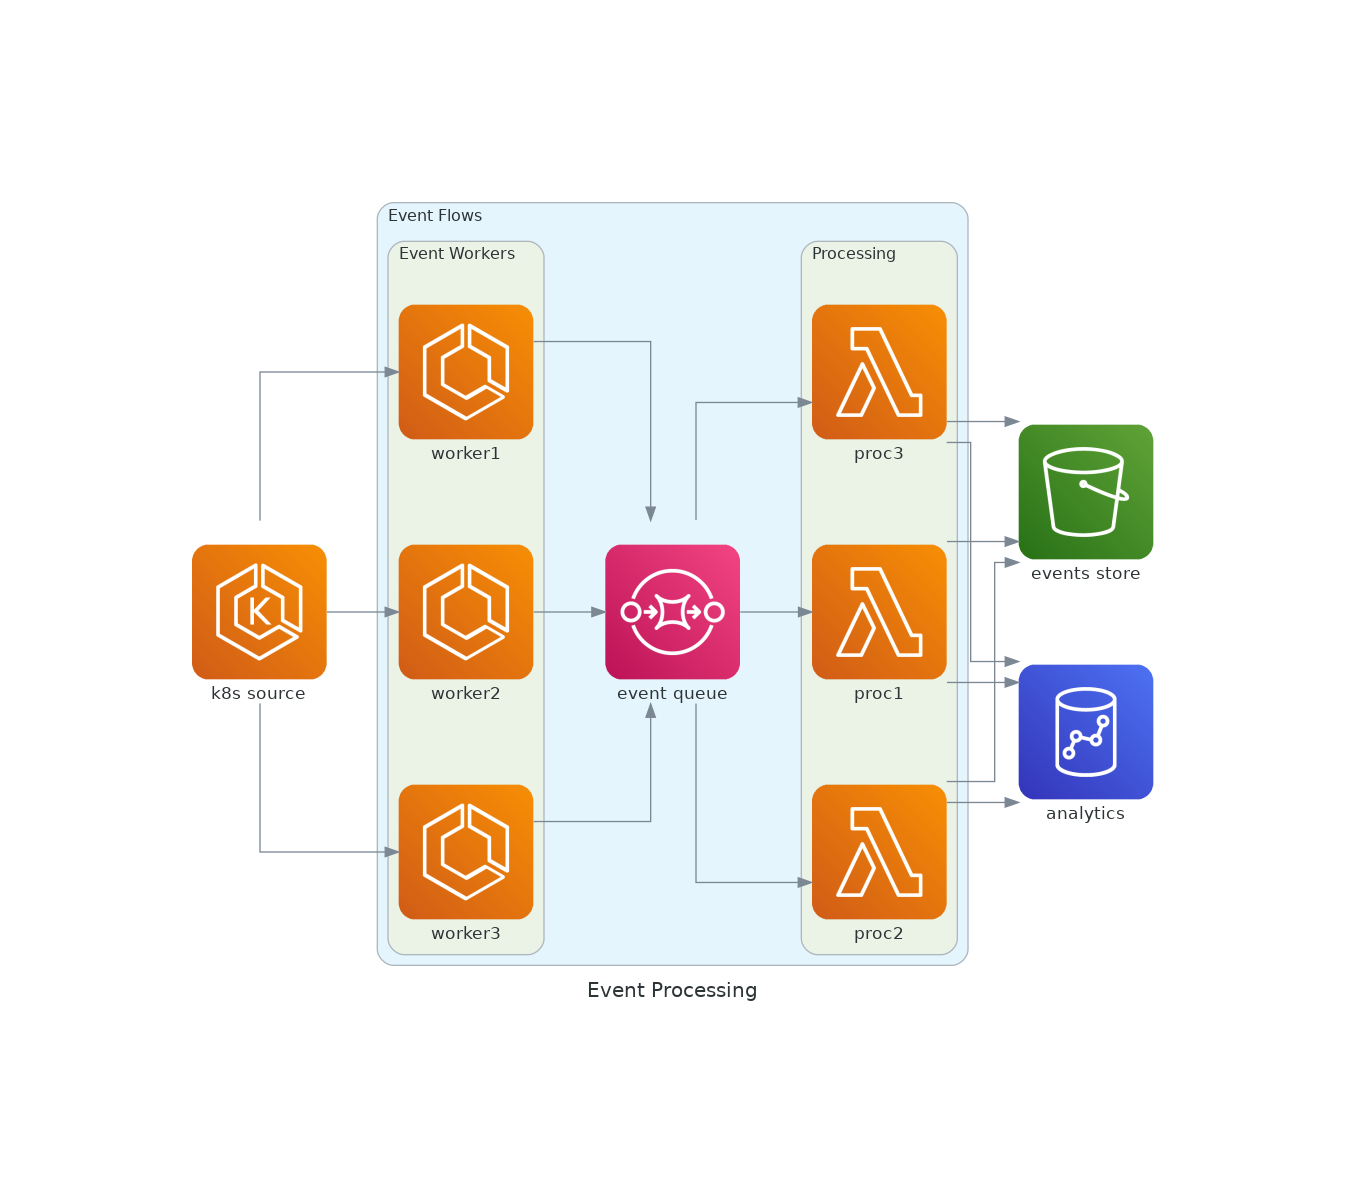
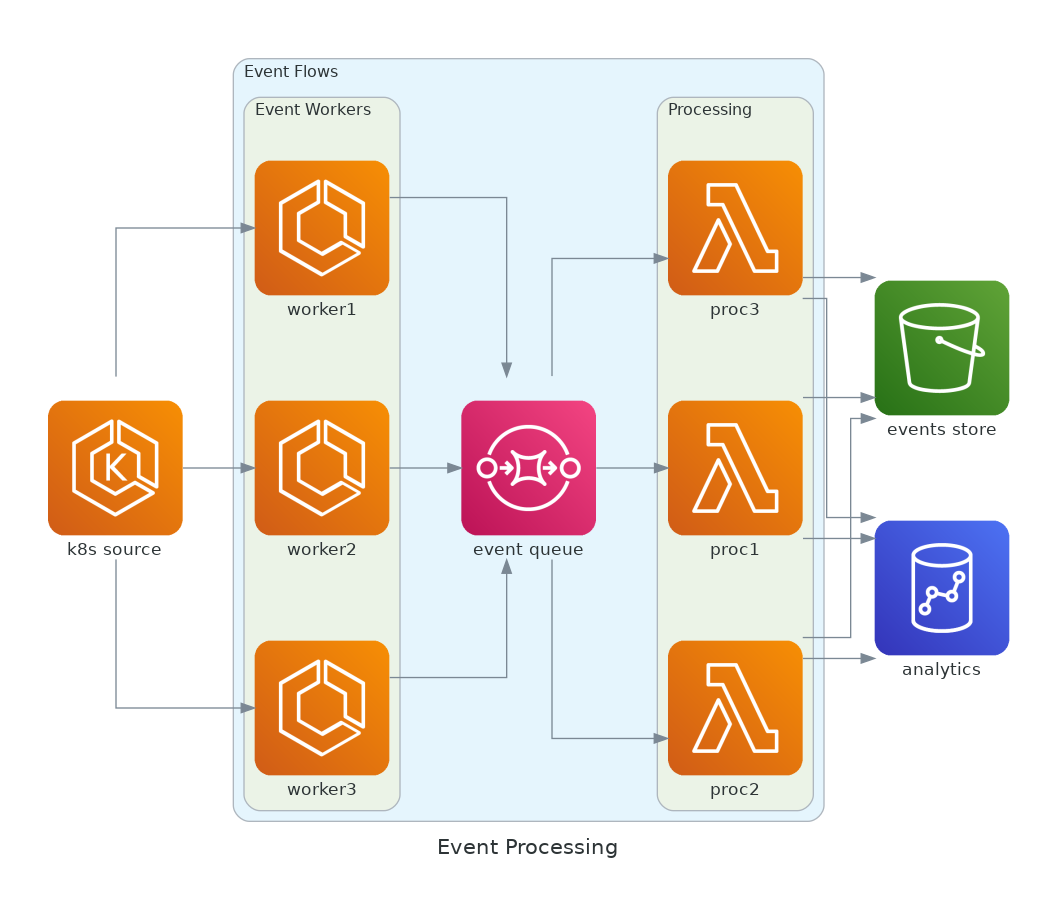
updated example diagrams with styling (graph_attr)

Changed region(s): [[0.0312, 0.0612, 0.9678, 0.9486], [0.4683, 0.2754, 0.4995, 0.306]]

diff --git a/src/example_one.py b/src/example_one.py
@@ -12,11 +12,18 @@ def example_one(diagram_name: str, path: str = "diagrams") -> None:
         path (str, optional): File path to where diagrams get sent. Defaults to "diagrams".
     """
 
+    graph_attr = {
+        "fontsize": "16",
+        "bgcolor": "white",
+        "pad": "0.5"
+    }
+
     with Diagram(
         diagram_name,
         show=False,
         outformat=["png"],
         filename=f"{path}/{diagram_name}",
+        graph_attr=graph_attr,
     ):
         dns = Route53("dns")
         web = ECS("service")

diff --git a/src/example_two.py b/src/example_two.py
@@ -13,11 +13,18 @@ def example_two(diagram_name: str, path: str = "diagrams") -> None:
         path (str, optional): File path to where diagrams get sent. Defaults to "diagrams".
     """
 
+    graph_attr = {
+        "fontsize": "16",
+        "bgcolor": "white",
+        "pad": "0.5"
+    }
+
     with Diagram(
         diagram_name,
         show=False,
         outformat=["png"],
         filename=f"{path}/{diagram_name}",
+        graph_attr=graph_attr,
     ):
         source = EKS("k8s source")
 

diff --git a/README.md b/README.md
@@ -5,11 +5,11 @@ Python application to generate diagrams using Mingrammer and Graphviz
  - Docker
 
 ## Running Locally
- - Build the docker image:
+ - Build the Docker image:
 
  `docker build -t diagrams .`
  
- - Run the image:
+ - Run the Docker image:
 
  `docker run --rm -v .:/app diagrams`
 
